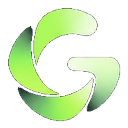
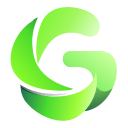
Adopt the manually reconstructed vector G as the brand mark source.
Store githired-g-master.svg, export sharp SVG/PNG favicons and lockups from it, and prefer the vector mark on the site while keeping prior WebP fallbacks.

diff --git a/site/agents/index.html b/site/agents/index.html
@@ -15,8 +15,8 @@
   <link rel="icon" type="image/png" sizes="192x192" href="../assets/brand/android-chrome-192x192.png" />
   <link rel="icon" type="image/png" sizes="512x512" href="../assets/brand/android-chrome-512x512.png" />
   <meta name="theme-color" content="#FFFFFF" />
-  <meta property="og:image" content="https://githired.ca/assets/brand/android-chrome-512x512.png" />
-  <link rel="stylesheet" href="../styles.css?v=20261115logo" />
+  <meta property="og:image" content="https://githired.ca/../assets/brand/android-chrome-512x512.png" />
+  <link rel="stylesheet" href="../styles.css?v=20261115vector" />
   <link href="https://fonts.googleapis.com/css2?family=DM+Sans:wght@400;500;600;700&family=IBM+Plex+Mono:wght@400;500&display=swap" rel="stylesheet" />
   <script type="application/ld+json">
   {
@@ -43,9 +43,11 @@
       <a class="brand" href="../" aria-label="GitHired home">
         <picture class="brand-lockup">
           <source type="image/webp" srcset="../assets/brand/githired-logo-light-nav.webp 1x, ../assets/brand/githired-logo-light.webp 2x" />
+          <source type="image/svg+xml" srcset="../assets/brand/githired-logo-light.svg" />
           <img src="../assets/brand/githired-logo-light.png" width="142" height="40" alt="GitHired" decoding="async" />
         </picture>
         <picture class="brand-mark">
+          <source type="image/svg+xml" srcset="../assets/brand/githired-mark.svg" />
           <source type="image/webp" srcset="../assets/brand/githired-mark-128.webp 1x, ../assets/brand/githired-mark-256.webp 2x" />
           <img src="../assets/brand/githired-mark-128.png" width="36" height="36" alt="GitHired" decoding="async" />
         </picture>
@@ -261,7 +263,7 @@
 
   <footer class="site-footer">
     <div class="wrap footer-inner">
-                  <div class="footer-brand">
+                        <div class="footer-brand">
         <span class="footer-wordmark" aria-label="GitHired"><span class="wm-git">Git</span><span class="wm-hired">Hired</span></span>
       </div>
       <p class="footer-note">Open source · Free · <a href="https://github.com/mikegianfelice/GitHired">GitHub</a> · <a href="../privacy/">Privacy</a> · <a href="../terms/">Terms</a></p>

diff --git a/site/developers/index.html b/site/developers/index.html
@@ -15,8 +15,8 @@
   <link rel="icon" type="image/png" sizes="192x192" href="../assets/brand/android-chrome-192x192.png" />
   <link rel="icon" type="image/png" sizes="512x512" href="../assets/brand/android-chrome-512x512.png" />
   <meta name="theme-color" content="#FFFFFF" />
-  <meta property="og:image" content="https://githired.ca/assets/brand/android-chrome-512x512.png" />
-  <link rel="stylesheet" href="../styles.css?v=20261115logo" />
+  <meta property="og:image" content="https://githired.ca/../assets/brand/android-chrome-512x512.png" />
+  <link rel="stylesheet" href="../styles.css?v=20261115vector" />
   <link href="https://fonts.googleapis.com/css2?family=DM+Sans:wght@400;500;600;700&family=IBM+Plex+Mono:wght@400;500&display=swap" rel="stylesheet" />
   <script type="application/ld+json">
   {
@@ -43,9 +43,11 @@
       <a class="brand" href="../" aria-label="GitHired home">
         <picture class="brand-lockup">
           <source type="image/webp" srcset="../assets/brand/githired-logo-light-nav.webp 1x, ../assets/brand/githired-logo-light.webp 2x" />
+          <source type="image/svg+xml" srcset="../assets/brand/githired-logo-light.svg" />
           <img src="../assets/brand/githired-logo-light.png" width="142" height="40" alt="GitHired" decoding="async" />
         </picture>
         <picture class="brand-mark">
+          <source type="image/svg+xml" srcset="../assets/brand/githired-mark.svg" />
           <source type="image/webp" srcset="../assets/brand/githired-mark-128.webp 1x, ../assets/brand/githired-mark-256.webp 2x" />
           <img src="../assets/brand/githired-mark-128.png" width="36" height="36" alt="GitHired" decoding="async" />
         </picture>
@@ -291,7 +293,7 @@
 
   <footer class="site-footer">
     <div class="wrap footer-inner">
-                  <div class="footer-brand">
+                        <div class="footer-brand">
         <span class="footer-wordmark" aria-label="GitHired"><span class="wm-git">Git</span><span class="wm-hired">Hired</span></span>
       </div>
       <p class="footer-note">Open source · Free · <a href="https://github.com/mikegianfelice/GitHired">GitHub</a> · <a href="../privacy/">Privacy</a> · <a href="../terms/">Terms</a></p>

diff --git a/site/privacy/index.html b/site/privacy/index.html
@@ -12,8 +12,8 @@
   <link rel="icon" type="image/png" sizes="192x192" href="../assets/brand/android-chrome-192x192.png" />
   <link rel="icon" type="image/png" sizes="512x512" href="../assets/brand/android-chrome-512x512.png" />
   <meta name="theme-color" content="#FFFFFF" />
-  <meta property="og:image" content="https://githired.ca/assets/brand/android-chrome-512x512.png" />
-  <link rel="stylesheet" href="../styles.css?v=20261115logo" />
+  <meta property="og:image" content="https://githired.ca/../assets/brand/android-chrome-512x512.png" />
+  <link rel="stylesheet" href="../styles.css?v=20261115vector" />
   <link href="https://fonts.googleapis.com/css2?family=DM+Sans:wght@400;500;600;700&family=IBM+Plex+Mono:wght@400;500&display=swap" rel="stylesheet" />
 </head>
 <body>
@@ -23,9 +23,11 @@
       <a class="brand" href="../" aria-label="GitHired home">
         <picture class="brand-lockup">
           <source type="image/webp" srcset="../assets/brand/githired-logo-light-nav.webp 1x, ../assets/brand/githired-logo-light.webp 2x" />
+          <source type="image/svg+xml" srcset="../assets/brand/githired-logo-light.svg" />
           <img src="../assets/brand/githired-logo-light.png" width="142" height="40" alt="GitHired" decoding="async" />
         </picture>
         <picture class="brand-mark">
+          <source type="image/svg+xml" srcset="../assets/brand/githired-mark.svg" />
           <source type="image/webp" srcset="../assets/brand/githired-mark-128.webp 1x, ../assets/brand/githired-mark-256.webp 2x" />
           <img src="../assets/brand/githired-mark-128.png" width="36" height="36" alt="GitHired" decoding="async" />
         </picture>
@@ -85,7 +87,7 @@
 
   <footer class="site-footer">
     <div class="wrap footer-inner">
-                  <div class="footer-brand">
+                        <div class="footer-brand">
         <span class="footer-wordmark" aria-label="GitHired"><span class="wm-git">Git</span><span class="wm-hired">Hired</span></span>
       </div>
       <p class="footer-note">

diff --git a/site/terms/index.html b/site/terms/index.html
@@ -12,8 +12,8 @@
   <link rel="icon" type="image/png" sizes="192x192" href="../assets/brand/android-chrome-192x192.png" />
   <link rel="icon" type="image/png" sizes="512x512" href="../assets/brand/android-chrome-512x512.png" />
   <meta name="theme-color" content="#FFFFFF" />
-  <meta property="og:image" content="https://githired.ca/assets/brand/android-chrome-512x512.png" />
-  <link rel="stylesheet" href="../styles.css?v=20261115logo" />
+  <meta property="og:image" content="https://githired.ca/../assets/brand/android-chrome-512x512.png" />
+  <link rel="stylesheet" href="../styles.css?v=20261115vector" />
   <link href="https://fonts.googleapis.com/css2?family=DM+Sans:wght@400;500;600;700&family=IBM+Plex+Mono:wght@400;500&display=swap" rel="stylesheet" />
 </head>
 <body>
@@ -23,9 +23,11 @@
       <a class="brand" href="../" aria-label="GitHired home">
         <picture class="brand-lockup">
           <source type="image/webp" srcset="../assets/brand/githired-logo-light-nav.webp 1x, ../assets/brand/githired-logo-light.webp 2x" />
+          <source type="image/svg+xml" srcset="../assets/brand/githired-logo-light.svg" />
           <img src="../assets/brand/githired-logo-light.png" width="142" height="40" alt="GitHired" decoding="async" />
         </picture>
         <picture class="brand-mark">
+          <source type="image/svg+xml" srcset="../assets/brand/githired-mark.svg" />
           <source type="image/webp" srcset="../assets/brand/githired-mark-128.webp 1x, ../assets/brand/githired-mark-256.webp 2x" />
           <img src="../assets/brand/githired-mark-128.png" width="36" height="36" alt="GitHired" decoding="async" />
         </picture>
@@ -76,7 +78,7 @@
 
   <footer class="site-footer">
     <div class="wrap footer-inner">
-                  <div class="footer-brand">
+                        <div class="footer-brand">
         <span class="footer-wordmark" aria-label="GitHired"><span class="wm-git">Git</span><span class="wm-hired">Hired</span></span>
       </div>
       <p class="footer-note">

diff --git a/site/index.html b/site/index.html
@@ -16,7 +16,7 @@
   <link rel="icon" type="image/png" sizes="512x512" href="assets/brand/android-chrome-512x512.png" />
   <meta name="theme-color" content="#FFFFFF" />
   <meta property="og:image" content="https://githired.ca/assets/brand/android-chrome-512x512.png" />
-  <link rel="stylesheet" href="styles.css?v=20261115logo" />
+  <link rel="stylesheet" href="styles.css?v=20261115vector" />
   <link rel="preconnect" href="https://fonts.googleapis.com" />
   <link rel="preconnect" href="https://fonts.gstatic.com" crossorigin />
   <link href="https://fonts.googleapis.com/css2?family=DM+Sans:ital,opsz,wght@0,9..40,400;0,9..40,500;0,9..40,600;0,9..40,700;1,9..40,400&family=IBM+Plex+Mono:wght@400;500&display=swap" rel="stylesheet" />
@@ -30,9 +30,11 @@
       <a class="brand" href="./" aria-label="GitHired home" data-nav="browse">
         <picture class="brand-lockup">
           <source type="image/webp" srcset="assets/brand/githired-logo-light-nav.webp 1x, assets/brand/githired-logo-light.webp 2x" />
+          <source type="image/svg+xml" srcset="assets/brand/githired-logo-light.svg" />
           <img src="assets/brand/githired-logo-light.png" width="142" height="40" alt="GitHired" decoding="async" />
         </picture>
         <picture class="brand-mark">
+          <source type="image/svg+xml" srcset="assets/brand/githired-mark.svg" />
           <source type="image/webp" srcset="assets/brand/githired-mark-128.webp 1x, assets/brand/githired-mark-256.webp 2x" />
           <img src="assets/brand/githired-mark-128.png" width="36" height="36" alt="GitHired" decoding="async" />
         </picture>
@@ -398,7 +400,7 @@
 
   <footer class="site-footer">
     <div class="wrap footer-inner">
-                  <div class="footer-brand">
+                        <div class="footer-brand">
         <span class="footer-wordmark" aria-label="GitHired"><span class="wm-git">Git</span><span class="wm-hired">Hired</span></span>
       </div>
       <p>

diff --git a/site/assets/brand/USAGE.md b/site/assets/brand/USAGE.md
@@ -1,21 +1,18 @@
 # GitHired site brand assets
 
-Source kit: `assets/githired_brand_assets.zip` (raster masters).
+## Source of truth
 
-## Production website files
+`githired-g-master.svg` — manually reconstructed vector G (paths + gradients).  
+Website mark: `githired-mark.svg` (same art; slightly taller viewBox to avoid bottom clipping).
+
+## Production files
 
 | Asset | Role |
 | --- | --- |
-| `githired-logo-light.webp` (+ `.png`) | Combined lockup for light backgrounds (desktop nav) |
-| `githired-logo-dark.webp` (+ `.png`) | Combined lockup for dark backgrounds |
-| `githired-logo-*-nav.webp` | Nav-sized lockups (~80px tall for 2×) |
-| `githired-mark-{128,256,512,1024}.webp` | Standalone G for compact nav / srcset |
-| `favicon.ico`, `favicon-32x32.png` | Browser favicon |
-| `apple-touch-icon.png` | 180×180 |
-| `android-chrome-192x192.png` / `512x512.png` | PWA / Android icons |
+| `githired-logo-light.svg` / `.png` / `.webp` | Desktop nav lockup (SVG preferred) |
+| `githired-logo-dark.svg` / `.png` / `.webp` | Dark-background lockup |
+| `githired-mark.svg` + `githired-mark-{128,256,512}.png` | Compact/mobile mark |
+| `favicon.ico`, `favicon-32x32.png`, `apple-touch-icon.png` | Icons from SVG |
+| `android-chrome-192x192.png` / `512x512.png` | PWA icons from SVG |
 
-Kit originals (`mark-transparent.png`, `icon-*.png`, etc.) are retained as masters.
-
-## Native resolution limit
-
-The G mark in the kit is only ~166–174px of content (even `icon-512.png` is the same art padded). WebPs larger than that are LANCZOS upscales for convenience, not new detail. Nav at 36px CSS is sharp on 2× with the 128/256 marks. A higher-resolution original or professional vector is still recommended for large hero/marketing use.
+Older WebP mark assets remain as `<picture>` fallbacks.
